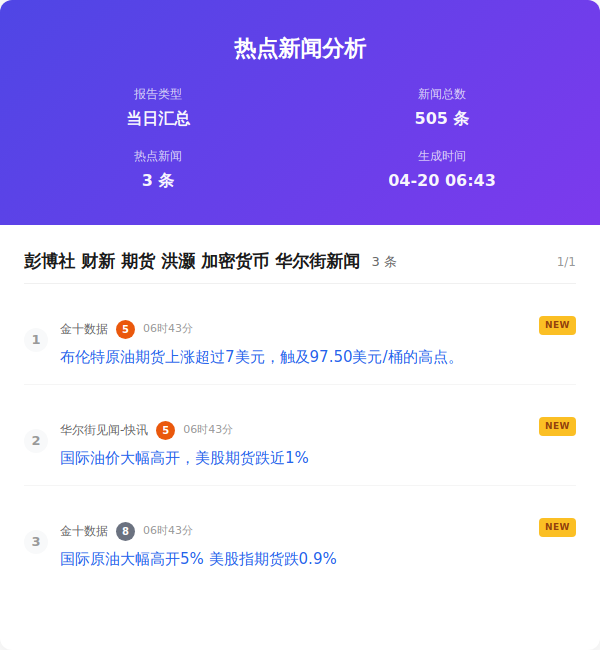
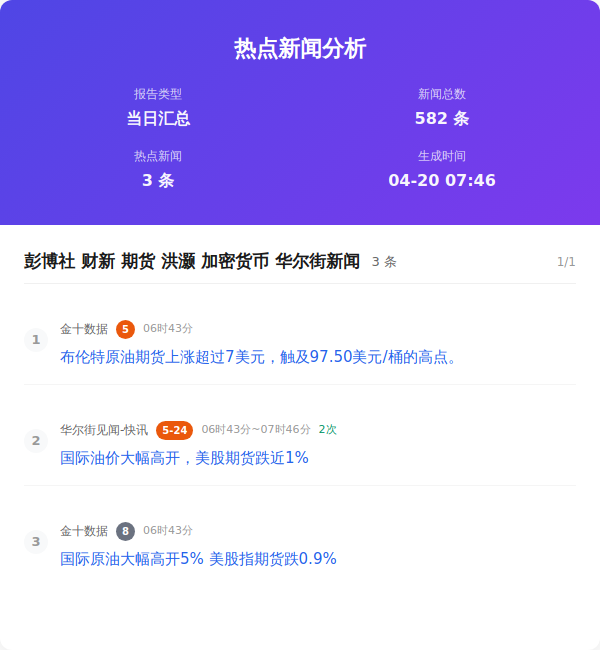
Auto update by GitHub Actions at Mon Apr 20 07:46:43 CST 2026

diff --git a/index.html b/index.html
@@ -357,7 +357,7 @@
                     </div>
                     <div class="info-item">
                         <span class="info-label">新闻总数</span>
-                        <span class="info-value">505 条</span>
+                        <span class="info-value">582 条</span>
                     </div>
                     <div class="info-item">
                         <span class="info-label">热点新闻</span>
@@ -365,7 +365,7 @@
                     </div>
                     <div class="info-item">
                         <span class="info-label">生成时间</span>
-                        <span class="info-value">04-20 06:43</span>
+                        <span class="info-value">04-20 07:46</span>
                     </div>
                 </div>
             </div>
@@ -379,7 +379,7 @@
                         </div>
                         <div class="word-index">1/1</div>
                     </div>
-                    <div class="news-item new">
+                    <div class="news-item ">
                         <div class="news-number">1</div>
                         <div class="news-content">
                             <div class="news-header">
@@ -389,17 +389,17 @@
                             </div>
                         </div>
                     </div>
-                    <div class="news-item new">
+                    <div class="news-item ">
                         <div class="news-number">2</div>
                         <div class="news-content">
                             <div class="news-header">
-                                <span class="source-name">华尔街见闻-快讯</span><span class="rank-num high">5</span><span class="time-info">06时43分</span>
+                                <span class="source-name">华尔街见闻-快讯</span><span class="rank-num high">5-24</span><span class="time-info">06时43分~07时46分</span><span class="count-info">2次</span>
                             </div>
                             <div class="news-title"><a href="https://wallstreetcn.com/livenews/3090667" target="_blank" class="news-link">国际油价大幅高开，美股期货跌近1%</a>
                             </div>
                         </div>
                     </div>
-                    <div class="news-item new">
+                    <div class="news-item ">
                         <div class="news-number">3</div>
                         <div class="news-content">
                             <div class="news-header">

diff --git a/output/2026年04月20日/html/当日汇总.html b/output/2026年04月20日/html/当日汇总.html
@@ -357,7 +357,7 @@
                     </div>
                     <div class="info-item">
                         <span class="info-label">新闻总数</span>
-                        <span class="info-value">505 条</span>
+                        <span class="info-value">582 条</span>
                     </div>
                     <div class="info-item">
                         <span class="info-label">热点新闻</span>
@@ -365,7 +365,7 @@
                     </div>
                     <div class="info-item">
                         <span class="info-label">生成时间</span>
-                        <span class="info-value">04-20 06:43</span>
+                        <span class="info-value">04-20 07:46</span>
                     </div>
                 </div>
             </div>
@@ -379,7 +379,7 @@
                         </div>
                         <div class="word-index">1/1</div>
                     </div>
-                    <div class="news-item new">
+                    <div class="news-item ">
                         <div class="news-number">1</div>
                         <div class="news-content">
                             <div class="news-header">
@@ -389,17 +389,17 @@
                             </div>
                         </div>
                     </div>
-                    <div class="news-item new">
+                    <div class="news-item ">
                         <div class="news-number">2</div>
                         <div class="news-content">
                             <div class="news-header">
-                                <span class="source-name">华尔街见闻-快讯</span><span class="rank-num high">5</span><span class="time-info">06时43分</span>
+                                <span class="source-name">华尔街见闻-快讯</span><span class="rank-num high">5-24</span><span class="time-info">06时43分~07时46分</span><span class="count-info">2次</span>
                             </div>
                             <div class="news-title"><a href="https://wallstreetcn.com/livenews/3090667" target="_blank" class="news-link">国际油价大幅高开，美股期货跌近1%</a>
                             </div>
                         </div>
                     </div>
-                    <div class="news-item new">
+                    <div class="news-item ">
                         <div class="news-number">3</div>
                         <div class="news-content">
                             <div class="news-header">